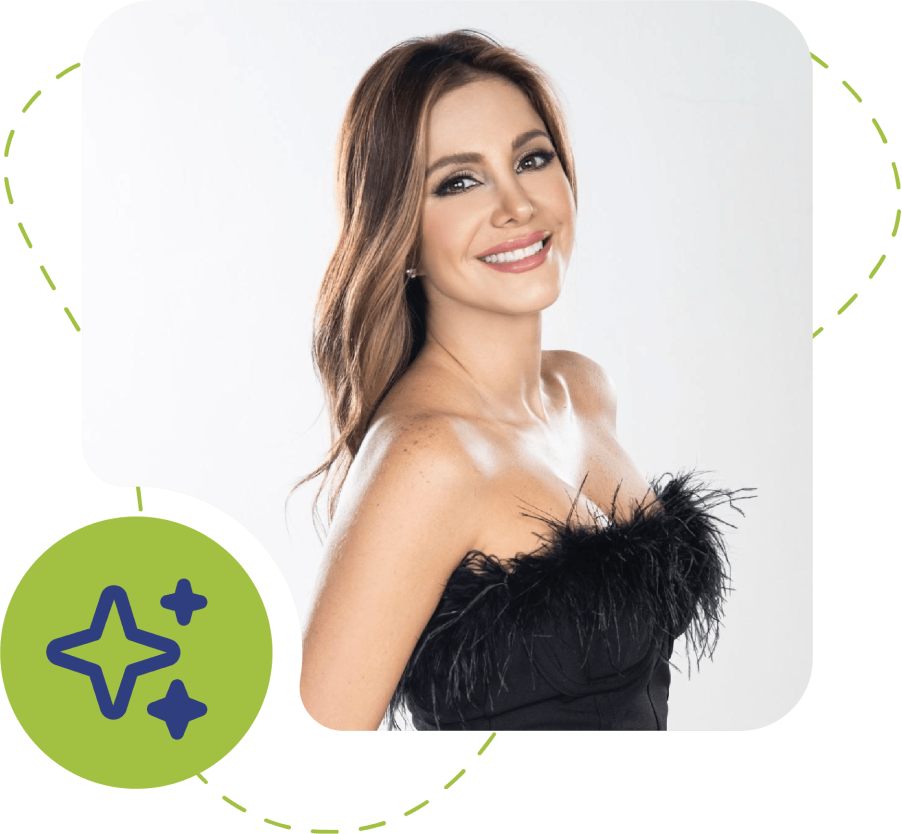
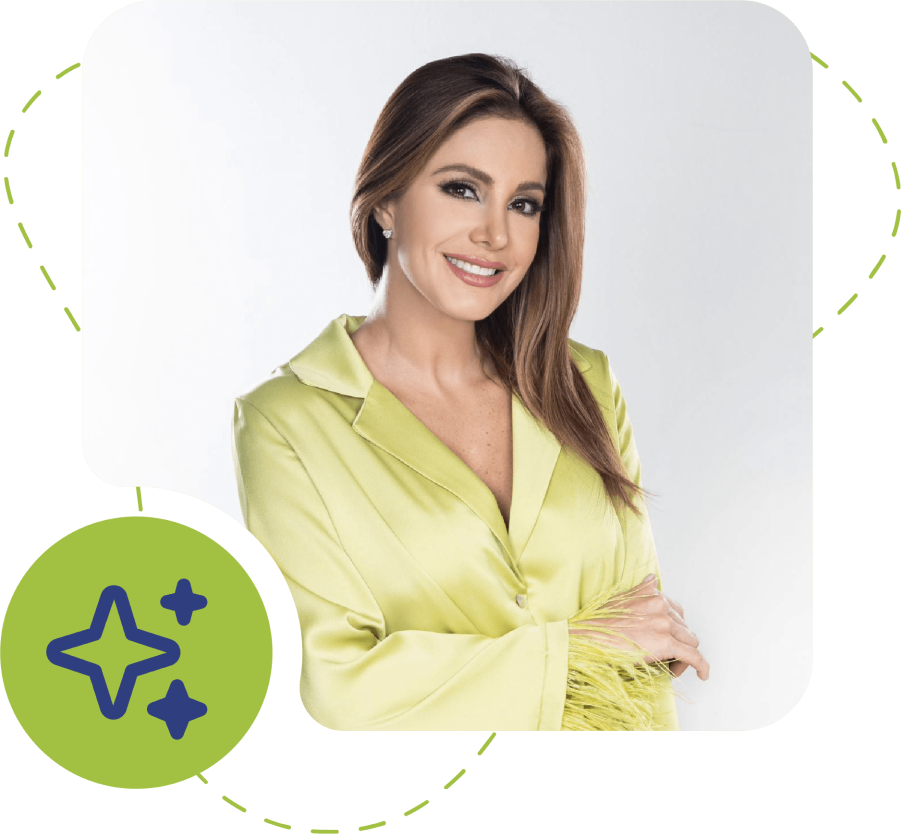
[fix] correncciones de copy, cambio foto review principal

Changed region(s): [[0.2483, 0.0312, 0.8381, 0.9041]]

diff --git a/src/data/teachersInfo.js b/src/data/teachersInfo.js
@@ -39,7 +39,7 @@ export const data = [
     id: "yheissi-blanco",
     name: "Yheissi Blanco",
     cargo: "DIRECTORA ACADÉMICA",
-    img: "teacher2.jpg",
+    img: "teacher2.png",
     descripcion:
       "Directora Académica de Fyr Lois. Encargada de preparar los programas académicos y asegurar que la metodología se cumpla de manera efectiva.",
     acercaDeMi: [
@@ -74,7 +74,7 @@ export const data = [
     id: "mauro-rodriguez",
     name: "Mauro Rodríguez",
     cargo: "DIRECTOR ACADÉMICO",
-    img: "teacher3.jpg",
+    img: "teacher3.png",
     descripcion:
       "Director Académico de Fyr Lois. Encargado de capacitar al equipo de profesores y la supervisión de todos los docentes.",
     acercaDeMi: [

diff --git a/src/data/blog.js b/src/data/blog.js
@@ -128,7 +128,7 @@ export const data = [
     tarjeta: {
       titulo: "Practica inglés con la Inteligencia Artificial",
       descripcion:
-        "La inteligencia artificial llego para cambiar la manera en la que vemos el mundo y sobretodo para dar un golpe sobre la mesa en cuanto al manejo de la información.",
+        "La inteligencia artificial llegó para cambiar la manera en la que vemos el mundo y sobretodo para dar un golpe sobre la mesa en cuanto al manejo de la información.",
       autor: "Leonardo Sangroni",
       fotoAutor: "leonardosangroni.png",
       categoria: "TECNOLOGÍA",

diff --git a/src/components/ModalIdiomas.jsx b/src/components/ModalIdiomas.jsx
@@ -63,7 +63,7 @@ export default function ModalIdiomas({ openModal, setOpenModal, selected }) {
                 }
                 className="text-center py-1 sm:py-2 px-5 bg-[#bb29b9] text-white rounded-md hover:bg-[#9ee701] w-11/12 transition-all duration-300"
               >
-                PRESENTIAL
+                PRESENCIAL
               </a>
             </div>
           </div>
